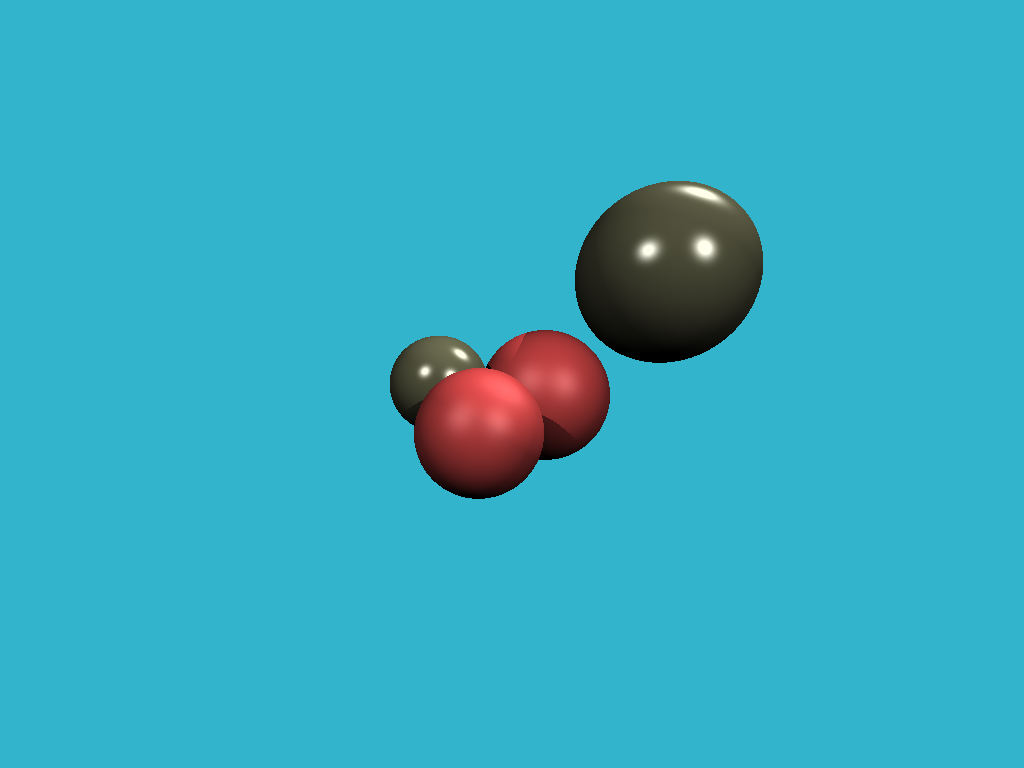
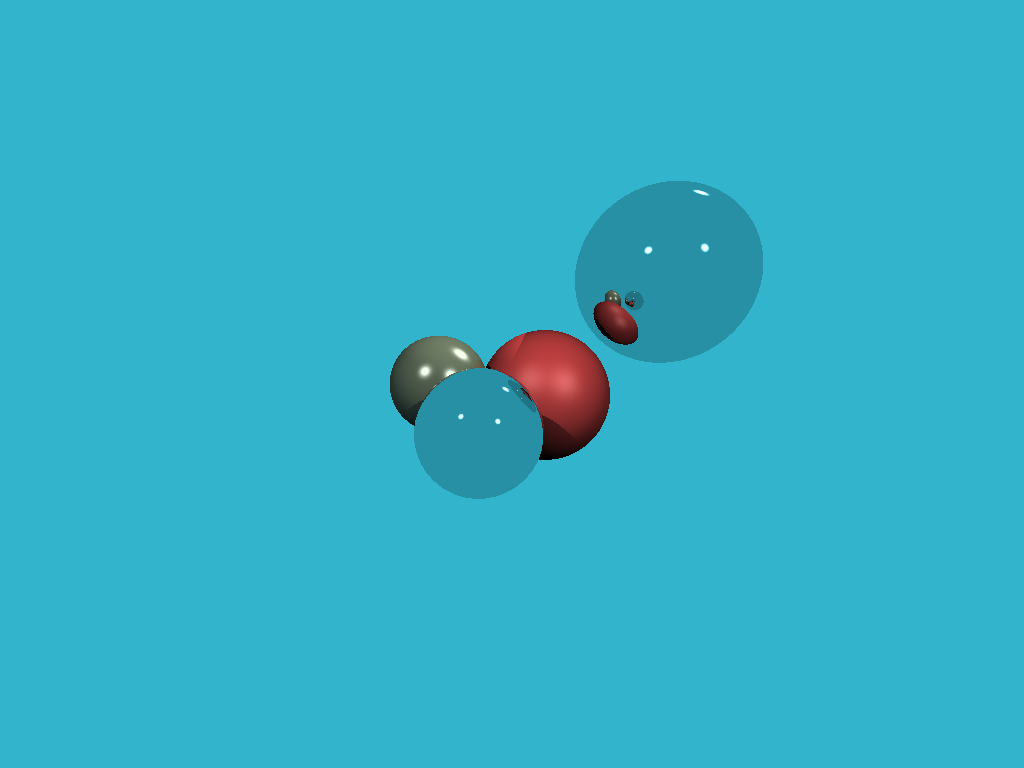
Step 7: reflections

Changed region(s): [[0.5625, 0.2188, 0.75, 0.4688], [0.4062, 0.4688, 0.5312, 0.6562]]

diff --git a/main.go b/main.go
@@ -68,13 +68,26 @@ func scene_intersect(orig, dir r3.Vector, spheres []Sphere, hit, N *r3.Vector, m
 	return spheres_dist < 1000
 }
 
-func cast_ray(orig, dir r3.Vector, spheres []Sphere, lights []Light) color.RGBA {
+func cast_ray(orig, dir r3.Vector, spheres []Sphere, lights []Light, depth int) color.RGBA {
 	var point, N r3.Vector
 	var material Materials
-
-	if !scene_intersect(orig, dir, spheres, &point, &N, &material) {
+    depth += 1
+	//if !scene_intersect(orig, dir, spheres, &point, &N, &material) {
+	//if !scene_intersect(orig, dir, spheres, &point, &N, &material) {
+    if depth>4 || !scene_intersect(orig, dir, spheres, &point, &N, &material) {
 		return color.RGBA{50, 180, 205, 255}
 	}
+
+    reflect_dir := r3.Vector.Normalize(Reflect(dir, N))
+    var reflect_orig r3.Vector
+
+    if r3.Vector.Dot(reflect_dir, N) < 0 {
+        reflect_orig = r3.Vector.Sub(point, r3.Vector.Mul(N, 0.001))
+    } else {
+        reflect_orig = r3.Vector.Add(point, r3.Vector.Mul(N, 0.001))
+    }
+    reflect_color := cast_ray(reflect_orig, reflect_dir, spheres, lights, depth)
+
 	//return material.DiffusedColor
     diffuse_light_intensity, specular_light_intensity := 0.0, 0.0
     for i:=0; i<len(lights); i++ {
@@ -107,7 +120,11 @@ func cast_ray(orig, dir r3.Vector, spheres []Sphere, lights []Light) color.RGBA 
     res2x := float64(black.R) * specular_light_intensity * material.Albedo[1]
     res2y := float64(black.G) * specular_light_intensity * material.Albedo[1]
     res2z := float64(black.B) * specular_light_intensity * material.Albedo[1]
-    return AddColors(r3.Vector{res1x, res1y, res1z}, r3.Vector{res2x, res2y, res2z})
+
+    res3x := float64(reflect_color.R) * material.Albedo[2]
+    res3y := float64(reflect_color.G) * material.Albedo[2]
+    res3z := float64(reflect_color.B) * material.Albedo[2]
+    return AddColors(r3.Vector{res1x, res1y, res1z}, r3.Vector{res2x, res2y, res2z}, r3.Vector{res3x, res3y, res3z})
 }
 
 func render(spheres []Sphere, lights []Light) {
@@ -124,7 +141,7 @@ func render(spheres []Sphere, lights []Light) {
 			x = (2.0*(float64(i)+0.5)/w - 1.0) * math.Tan(fov/2.0) * w / h
 			y = -(2.0*(float64(j)+0.5)/h - 1.0) * math.Tan(fov/2.0)
 			dir := r3.Vector.Normalize(r3.Vector{x, y, -1.0})
-			img.Set(i, j, cast_ray(r3.Vector{0, 0, 0}, dir, spheres, lights))
+			img.Set(i, j, cast_ray(r3.Vector{0, 0, 0}, dir, spheres, lights, 0))
 		}
 	}
 
@@ -147,8 +164,8 @@ func Reflect (I, N r3.Vector) r3.Vector {
     return r3.Vector.Sub(I, r3.Vector.Mul(N,2.0*r3.Vector.Dot(I, N)))
 }
 
-func AddColors(i, j r3.Vector) color.RGBA {
-    r, g, b := i.X+j.X, i.Y+j.Y, i.Z+j.Z
+func AddColors(i, j, k r3.Vector) color.RGBA {
+    r, g, b := (i.X + j.X + k.X), (i.Y + j.Y + k.Y), (i.Z + j.Z + k.Z)
     maxc := float64(max(float64(r), max(float64(g), float64(b))))
     if maxc > 255. {
         return color.RGBA{uint8(float64(r)*255./maxc),
@@ -164,14 +181,17 @@ func AddColors(i, j r3.Vector) color.RGBA {
 
 func main() {
 
-	ivory := Materials{Albedo: []float64{0.3, 0.6}, DiffusedColor: color.RGBA{100, 100, 75, 255}, SpecularExponent: 50.}
-	red_rubber := Materials{Albedo: []float64{0.9, 0.1}, DiffusedColor: color.RGBA{75, 25, 25, 255}, SpecularExponent: 10.}
+	ivory       := Materials{Albedo: []float64{0.3, 0.6, 0.1}, DiffusedColor: color.RGBA{100, 100, 75, 255}, SpecularExponent: 50.}
+	red_rubber  := Materials{Albedo: []float64{0.9, 0.1, 0.0}, DiffusedColor: color.RGBA{75, 25, 25, 255}, SpecularExponent: 10.}
+    mirror      := Materials{Albedo: []float64{0.0, 10.0, 0.8}, DiffusedColor: color.RGBA{255, 255, 255, 255}, SpecularExponent: 1425.}
 
 	spheres := make([]Sphere, 0)
 	spheres = append(spheres, Sphere{r3.Vector{-3.0, 0.0, -16.0}, 2, ivory})
-	spheres = append(spheres, Sphere{r3.Vector{-1.0, -1.5, -12.0}, 2, red_rubber})
+	spheres = append(spheres, Sphere{r3.Vector{-1.0, -1.5, -12.0}, 2, mirror})
 	spheres = append(spheres, Sphere{r3.Vector{1.5, -0.5, -18.0}, 3, red_rubber})
-	spheres = append(spheres, Sphere{r3.Vector{7.0, 5.0, -18.0}, 4, ivory})
+	spheres = append(spheres, Sphere{r3.Vector{7.0, 5.0, -18.0}, 4, mirror})
+	//spheres = append(spheres, Sphere{r3.Vector{-1.0, -1.5, -12.0}, 2, red_rubber})
+	//spheres = append(spheres, Sphere{r3.Vector{7.0, 5.0, -18.0}, 4, ivory})
 
     lights := make([]Light, 0)
     lights = append(lights, Light{r3.Vector{-20, 20, 20}, 1.5})
